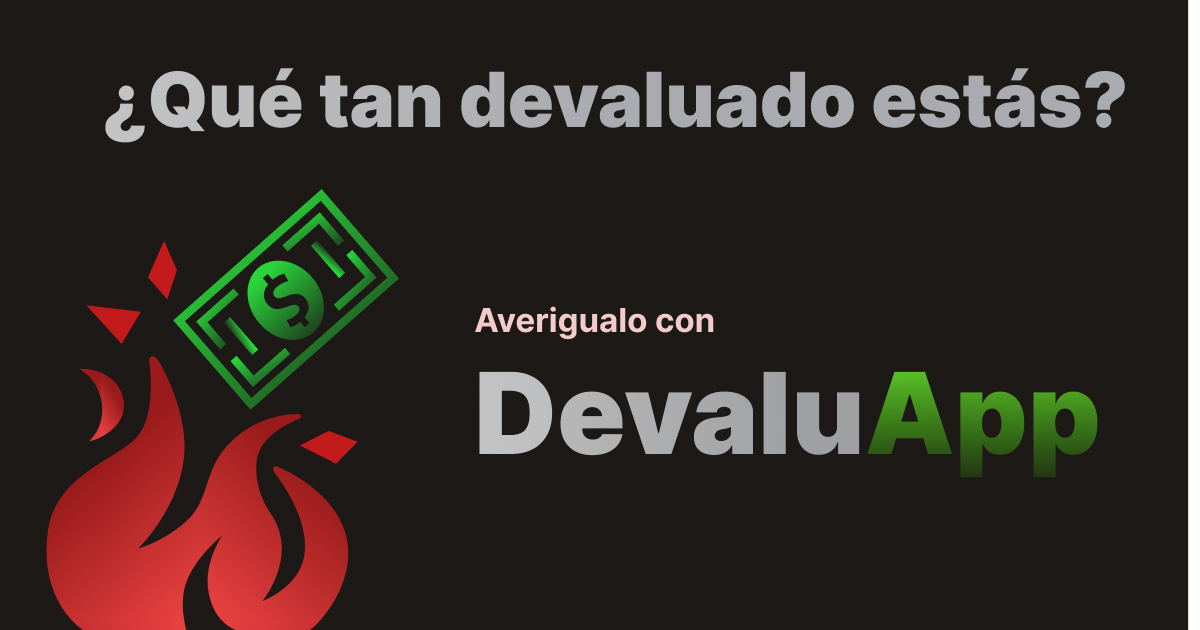
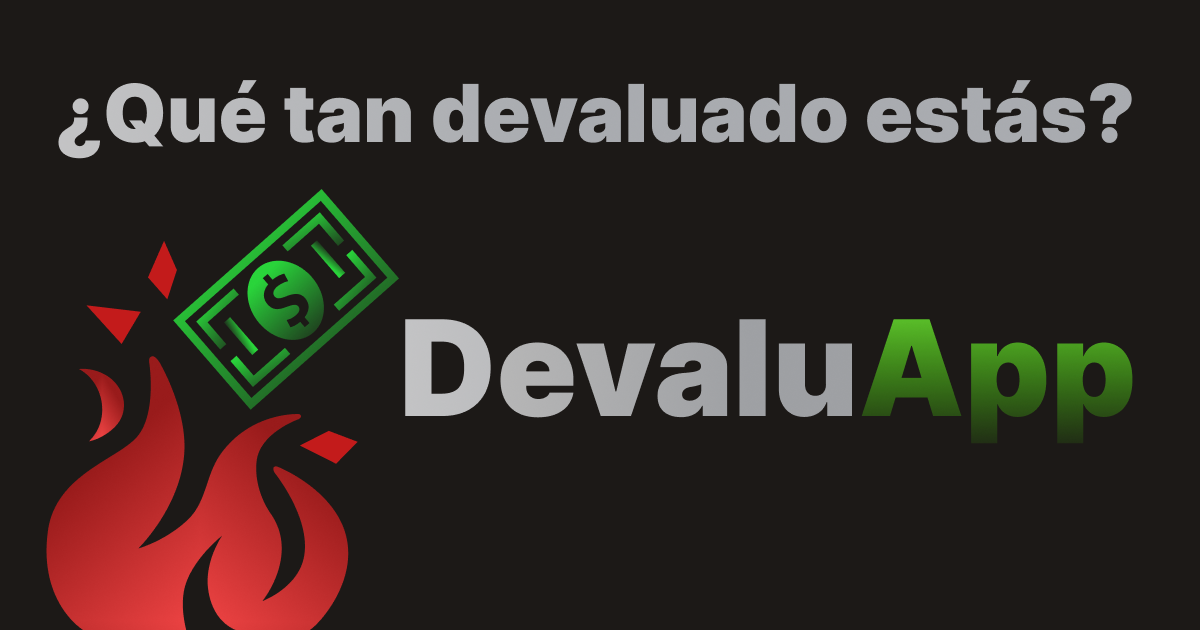
prueba

Changed region(s): [[0.3392, 0.4825, 0.9558, 0.754], [0.0308, 0.0905, 0.9558, 0.2714], [0.9867, 0.0, 1.0, 1.0]]

diff --git a/app/layout.tsx b/app/layout.tsx
@@ -9,26 +9,13 @@ const inter = Inter({ subsets: ['latin'] })
 
 export const metadata: Metadata = {
   title: 'DevaluApp',
-  description: 'Calculá cuanto se devalúa tu sueldo en Argentina',
+  description: 'Calculá cuanto se devaluó tu sueldo en Argentina',
   metadataBase: new URL("https://www.devaluapp.ar/"),
   keywords: ['Calculadora', 'Devaluacion', 'Inflacion', 'Dolares', 'Argentina', 'Sueldo'],
   alternates: {
     canonical: "https://www.devaluapp.ar/"
   },
   themeColor: 'black',
-  openGraph: {
-    title: 'DevaluApp',
-    description: 'Calculá cuanto se devaló tu sueldo en Argentina',
-    type: "website",
-    url: "https://www.devaluapp.ar/"
-  },
-  twitter: {
-    card: 'summary_large_image',
-    title: 'DevaluApp',
-    description: 'Calculá cuanto se devaló tu sueldo en Argentina',
-    creator: '@ing_Barreiro',
-    images: ['https://devaluapp.ar/twitter-image.png'],
-  },
 }
 
 export default function RootLayout({

diff --git a/app/page.tsx b/app/page.tsx
@@ -149,7 +149,7 @@ export default function DevaluApp() {
           dark:bg-gradient-to-r dark:from-slate-300 dark:to-slate-500 bg-clip-text text-transparent">
             Devalu<span className="bg-gradient-to-r from-emerald-500 to-lime-600 bg-clip-text text-transparent">App</span> 
           </CardTitle>
-          <CardDescription className="text-lg">¿Qué tan devaluado estás?</CardDescription>
+          <CardDescription className="text-lg font-bold">¿Qué tan devaluado estás?</CardDescription>
         </CardHeader>
 
 
